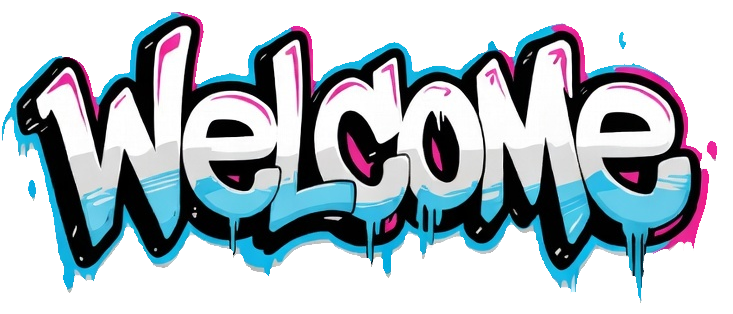
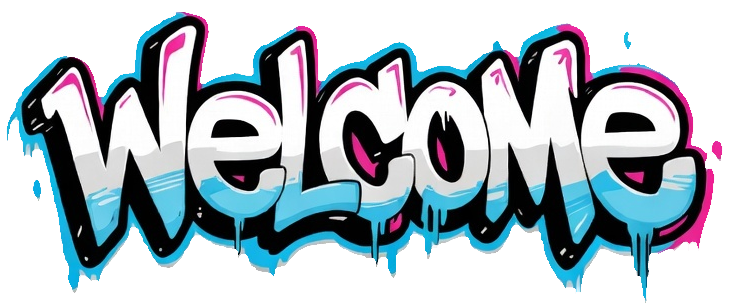
Update layout positioning and z-index stacking order

Changed region(s): [[0.0, 0.0292, 0.9905, 0.9643], [0.8404, 0.0877, 0.8704, 0.1461]]

diff --git a/style.css b/style.css
@@ -36,7 +36,7 @@ body::before {
   padding-bottom: 20px;
   overflow: hidden;
   position: relative;
-  z-index: 1;
+  z-index: auto;
 }
 
 #left-col {
@@ -49,24 +49,30 @@ body::before {
 
 #blotch-img {
   position: fixed;
-  top: -10;
-  left: 0;
+  top: 50%;
+  transform: translateY(-50%);
+  left: -15px;
   width: 104vw;
   max-width: none;
   max-height: none;
   z-index: 0;
   pointer-events: none;
+  clip-path: inset(0 100% 0 0);
+  animation: sprayReveal 1.8s cubic-bezier(0.22, 0.61, 0.36, 1) 0s forwards;
 }
 
 #welcome-img {
-  position: relative;
-  max-height: 33vh;
-  width: auto;
-  max-width: 116%;
+  position: fixed;
+  top: 50%;
+  transform: translateY(-50%);
+  left: 85px;
+  width: 45.156%;
+  height: 45.156vh;
   object-fit: contain;
   object-position: left top;
-  animation: slideDown 1.6s cubic-bezier(0.25, 0.46, 0.45, 0.94) forwards;
-  z-index: 1;
+  z-index: 3;
+  clip-path: inset(0 100% 0 0);
+  animation: sprayReveal 1.4s cubic-bezier(0.22, 0.61, 0.36, 1) 0.6s forwards;
 }
 
 #mid-col {
@@ -78,14 +84,47 @@ body::before {
 }
 
 #menu-img {
-  max-height: 33vh;
-  width: auto;
-  max-width: 100%;
+  position: fixed;
+  top: 99px;
+  right: 14px;
+  width: 49.68%;
+  height: 49.68vh;
   object-fit: contain;
-  object-position: left top;
+  object-position: right top;
+  z-index: 2;
+  clip-path: inset(0 100% 0 0);
+  animation: sprayReveal 1.4s cubic-bezier(0.22, 0.61, 0.36, 1) 1.2s forwards;
 }
 
-@keyframes slideDown {
-  from { transform: translateY(-120vh); }
-  to   { transform: translateY(0); }
+#ghetto-text {
+  display: none;
+}
+
+#shoe-img {
+  position: fixed;
+  bottom: 20px;
+  right: 62px;
+  width: 45.5%; 
+  height: auto;
+  object-fit: contain;
+  z-index: 1;
+  clip-path: inset(0 100% 0 0);
+  animation: sprayReveal 1.4s cubic-bezier(0.22, 0.61, 0.36, 1) 1.6s forwards;
+}
+
+@keyframes sprayReveal {
+  0% {
+    clip-path: inset(0 100% 0 0);
+    filter: blur(6px) opacity(0.3);
+  }
+  30% {
+    filter: blur(4px) opacity(0.6);
+  }
+  60% {
+    filter: blur(2px) opacity(0.85);
+  }
+  100% {
+    clip-path: inset(0 0% 0 0);
+    filter: blur(0px) opacity(1);
+  }
 }

diff --git a/index.html b/index.html
@@ -13,8 +13,10 @@
       <img id="welcome-img" src="welcome.png" alt="Welcome" />
     </div>
     <div id="mid-col">
+      <img id="menu-img" src="menu.png" alt="Menu" />
     </div>
   </div>
+  <img id="shoe-img" src="shoe.png" alt="Shoe" />
   <script src="main.js"></script>
 </body>
 </html>
